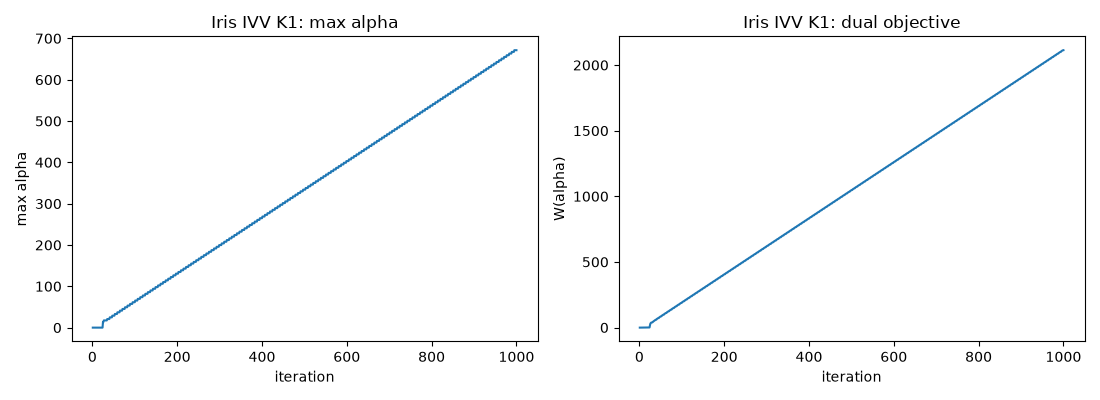
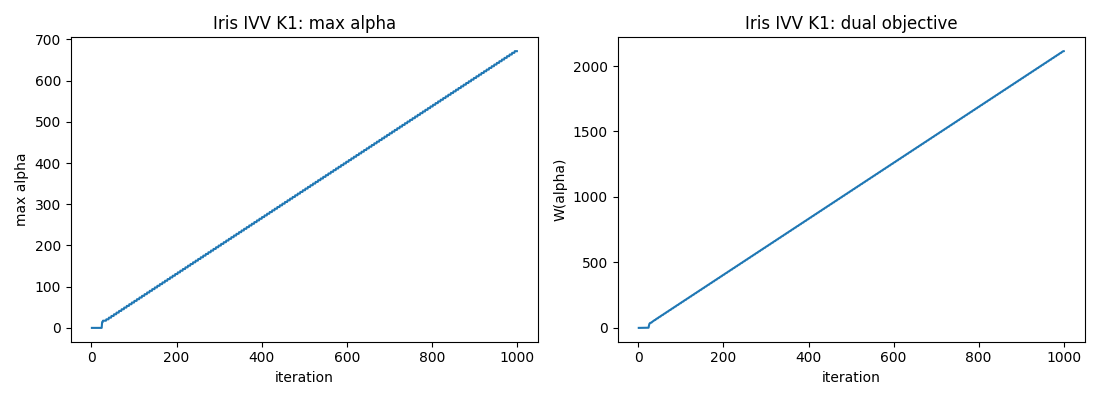
final

diff --git a/main.py b/main.py
@@ -45,7 +45,6 @@ def SMO(X, y, kernel, eps=1e-8, tau=1e-3, T=10e4, seed=42):
   iteration_history = []
 
 
-
   for i in range(int(T)):
     fxi = K @ (a * y) + b
 
@@ -67,14 +66,13 @@ def SMO(X, y, kernel, eps=1e-8, tau=1e-3, T=10e4, seed=42):
     i1 = np.argmax(vi) # 4a get the worst KKT violator index
 
     if vi[i1] < tau: # use the index to check if Step 3 succeeds
-      print(f"Reached KKT tolerance with vi[i1] = {vi[i1]}")
+      print(f"Converged - reached KKT tolerance with vi[i1] = {vi[i1]}")
       break
 
     ei = Ei[i1] - Ei # get e(i) part 4b
 
     k = K[i1,i1] + np.diag(K) - 2 * K[i1, :] #K[i1,i1] + diagnols of K to get K_ii - 2 * K[i1,i]
     
-    #valid_k_values = []
     valid_k_values = np.where(k > 1e-12)[0]
     valid_k_values = valid_k_values[valid_k_values != i1]
 
@@ -193,7 +191,7 @@ def getGridAndDecisionFunction(Xtr, Ytr, kernel, alpha, bias):
 
   return xx, yy, np.array(decision_function)
 
-def getConfusionMatrix(Xtr,Ytr,Xte,Yte, kernel, alpha, bias):
+def getConfusionMatrixAndMargin(Xtr,Ytr,Xte,Yte, kernel, alpha, bias):
 
   # get decision function over Xtr
   Xtr_fx = []
@@ -215,8 +213,8 @@ def getConfusionMatrix(Xtr,Ytr,Xte,Yte, kernel, alpha, bias):
   Xte_fx = []
   for i in Xte: 
     fx = 0
-    for index, x in enumerate(Xte):
-      fx += alpha[index] * Yte[index] * kernel(x,i) # iterate through all Xtr values and append to the fx 
+    for index, x in enumerate(Xtr):
+      fx += alpha[index] * Ytr[index] * kernel(x,i) # iterate through all Xte values and append to the fx 
     fx += bias # add the bias after taking the sum of all the product values based on index and x for decision function
     Xte_fx.append(fx) # add decision function values to match the grid size
 
@@ -237,8 +235,46 @@ def getConfusionMatrix(Xtr,Ytr,Xte,Yte, kernel, alpha, bias):
   print(Xte_confusion)
 
   print("\nTraining Accuracy = ", accuracy_score(Ytr,Ytr_predictions))
-  print("\nTest Accuracy = ", accuracy_score(Yte, Yte_predictions))
+  print("Test Accuracy = ", accuracy_score(Yte, Yte_predictions))
 
+  # first get ||w||^2
+
+  w2 = 0.0
+  
+  for i, xi in enumerate(Xtr):
+     for j, xj in enumerate(Xtr):
+        w2 += alpha[i] * alpha[j] * Ytr[i] * Ytr[j] * kernel(xi,xj)
+
+  w = np.sqrt(w2)
+
+  margin = 2/w
+  sum_a = np.sum(alpha)
+
+  print(f"Margin 2/||w|| = {margin}")
+  print(f"||w||^2 = {w2}")
+  print(f"sum of alpha = {sum_a}")
+  print(f"w2 agrees with alpha sum? {np.isclose(w2,sum_a, atol=1e-3)}") # use isclose with the tolerance being tau to check agreement
+        
+
+def plotWaAndMisclass(history, pltTitle, supTitle):
+  #plot history W(alpha) and misclassifications
+  iterations = [h["iteration"] for h in history]
+  Walpha = [h["objective"] for h in history]
+  misclassifications = [h["train_errors"] for h in history]
+
+  fig, (ax1, ax2) = plt.subplots(1,2)
+  ax1.plot(iterations,Walpha, label="W(alpha)")
+  ax1.set_xlabel("# of Iterations")
+  ax1.set_ylabel("Objective W(alpha)")
+  ax1.set_title("W(alpha) vs Iterations")
+
+  ax2.plot(iterations,misclassifications, label="Misclassification")
+  ax2.set_xlabel("# of Iterations")
+  ax2.set_ylabel("Misclassifications")
+  ax2.set_title("Misclassifications vs Iterations")
+  fig.suptitle(supTitle)
+  plt.savefig(pltTitle)
+  plt.show()
 
 def standardize_features(Xtr, Xte):
   mean = np.mean(Xtr, axis=0)
@@ -276,6 +312,16 @@ if __name__ == "__main__":
   Yte_XOR = df["y"].to_numpy(dtype=float)
 
   Xtr_XOR_stan, Xte_XOR_stan = standardize_features(Xtr_XOR, Xte_XOR)
+
+  df = pd.read_csv("SMO_data/rings_train.csv")
+  Xtr_R = df.drop(columns=["y"]).to_numpy(dtype=float)
+  Ytr_R = df["y"].to_numpy(dtype=float)
+
+  df = pd.read_csv("SMO_data/rings_test.csv")
+  Xte_R = df.drop(columns=["y"]).to_numpy(dtype=float)
+  Yte_R = df["y"].to_numpy(dtype=float)
+
+  Xtr_R_stan, Xte_R_stan = standardize_features(Xtr_R, Xte_R)
 
   # iris versicolor vs virginica
   df = pd.read_csv("SMO_data/iris_versicolor_virginica.csv")
@@ -366,20 +412,21 @@ print("equality constraint:", np.isclose(np.sum(alpha * y_toy), 0.0, atol=1e-8))
 print("\n--- part b: experiments ---")
 
 print("Dataset = iris_setosa_versicolor_train Kernel = K1")
-alpha, bias, history = SMO(Xtr_ISV,Ytr_ISV,kernel1)
+alpha, bias, history = SMO(Xtr_ISV_stan,Ytr_ISV,kernel1)
+print(f"bias = {bias}")
 eps = 1e-8
 
 # get the grid desicion function values from SMO
-xx, yy, fx = getGridAndDecisionFunction(Xtr_ISV, Ytr_ISV, kernel1, alpha, bias)
+xx, yy, fx = getGridAndDecisionFunction(Xtr_ISV_stan, Ytr_ISV, kernel1, alpha, bias)
 
 fx = np.array(fx)
 fx = fx.reshape(xx.shape) # make decision function 2D like xx and yy
 
 plt.contour(xx,yy,fx,levels=[-1,0,1], linestyles=['--','-','--'], colors="black") # boundary fx=0 and +- 1
 
-plt.scatter(Xtr_ISV[Ytr_ISV==1, 0],Xtr_ISV[Ytr_ISV==1,1], label="Setosa", marker="o") # scatter plot the Setosa values
-plt.scatter(Xtr_ISV[Ytr_ISV==-1, 0],Xtr_ISV[Ytr_ISV==-1,1], label="Versicolor", marker="o") # scatter plot the Versicolor values
-plt.scatter(Xtr_ISV[alpha > eps, 0],Xtr_ISV[alpha > eps, 1], label="Support Vectors", s=360, facecolors="none",
+plt.scatter(Xtr_ISV_stan[Ytr_ISV==1, 0],Xtr_ISV_stan[Ytr_ISV==1,1], label="Setosa", marker="o") # scatter plot the Setosa values
+plt.scatter(Xtr_ISV_stan[Ytr_ISV==-1, 0],Xtr_ISV_stan[Ytr_ISV==-1,1], label="Versicolor", marker="o") # scatter plot the Versicolor values
+plt.scatter(Xtr_ISV_stan[alpha > eps, 0],Xtr_ISV_stan[alpha > eps, 1], label="Support Vectors", s=360, facecolors="none",
     edgecolors="red", linewidths=1) # scatter plot the support vector values alpha > epsilon make them small red see through circles 
 
 plt.title("Iris Setosa Versicolor Kernel 1")
@@ -387,26 +434,30 @@ plt.xlabel("Sepal Length")
 plt.ylabel("Petal Length")
 plt.legend()
 plt.grid(True)
-plt.show()
 plt.savefig("part_b_ISV_K1.png")
+plt.show()
 
-getConfusionMatrix(Xtr_ISV, Ytr_ISV,Xte_ISV,Yte_ISV,kernel1,alpha,bias)
+
+getConfusionMatrixAndMargin(Xtr_ISV_stan, Ytr_ISV,Xte_ISV_stan,Yte_ISV,kernel1,alpha,bias)
+
+plotWaAndMisclass(history, "part_b_ISV_K1_Wa_Misclass.png", "Iris Setosa Versicolor Dataset Kernel 1")
 
 print("\nDataset = iris_setosa_versicolor_train Kernel = K2")
-alpha, bias, history = SMO(Xtr_ISV,Ytr_ISV,kernel2)
+alpha, bias, history = SMO(Xtr_ISV_stan,Ytr_ISV,kernel2)
+print(f"bias = {bias}")
 eps = 1e-8
 
 # get the grid desicion function values from SMO
-xx, yy, fx = getGridAndDecisionFunction(Xtr_ISV, Ytr_ISV, kernel2, alpha, bias)
+xx, yy, fx = getGridAndDecisionFunction(Xtr_ISV_stan, Ytr_ISV, kernel2, alpha, bias)
 
 fx = np.array(fx)
 fx = fx.reshape(xx.shape) # make decision function 2D like xx and yy
 
 plt.contour(xx,yy,fx,levels=[-1,0,1], linestyles=['--','-','--'], colors="black") # boundary fx=0 and +- 1
 
-plt.scatter(Xtr_ISV[Ytr_ISV==1, 0],Xtr_ISV[Ytr_ISV==1,1], label="Setosa", marker="o") # scatter plot the Setosa values
-plt.scatter(Xtr_ISV[Ytr_ISV==-1, 0],Xtr_ISV[Ytr_ISV==-1,1], label="Versicolor", marker="o") # scatter plot the Versicolor values
-plt.scatter(Xtr_ISV[alpha > eps, 0],Xtr_ISV[alpha > eps, 1], label="Support Vectors", s=360, facecolors="none",
+plt.scatter(Xtr_ISV_stan[Ytr_ISV==1, 0],Xtr_ISV_stan[Ytr_ISV==1,1], label="Setosa", marker="o") # scatter plot the Setosa values
+plt.scatter(Xtr_ISV_stan[Ytr_ISV==-1, 0],Xtr_ISV_stan[Ytr_ISV==-1,1], label="Versicolor", marker="o") # scatter plot the Versicolor values
+plt.scatter(Xtr_ISV_stan[alpha > eps, 0],Xtr_ISV_stan[alpha > eps, 1], label="Support Vectors", s=360, facecolors="none",
     edgecolors="red", linewidths=1) # scatter plot the support vector values alpha > epsilon make them small red see through circles 
 
 plt.title("Iris Setosa Versicolor Kernel 2")
@@ -414,14 +465,140 @@ plt.xlabel("Sepal Length")
 plt.ylabel("Petal Length")
 plt.legend()
 plt.grid(True)
-plt.show()
 plt.savefig("part_b_ISV_K2.png")
-getConfusionMatrix(Xtr_ISV, Ytr_ISV,Xte_ISV,Yte_ISV,kernel2,alpha,bias)
+plt.show()
+
+getConfusionMatrixAndMargin(Xtr_ISV_stan, Ytr_ISV,Xte_ISV_stan,Yte_ISV,kernel2,alpha,bias)
+
+plotWaAndMisclass(history, "part_b_ISV_K2_Wa_Misclass.png", "Iris Setosa Versicolor Dataset Kernel 2")
+
+
+print("\nDataset = rings Kernel = K1")
+alpha, bias, history = SMO(Xtr_R_stan,Ytr_R,kernel1)
+print(f"bias = {bias}")
+eps = 1e-8
+
+# get the grid desicion function values from SMO
+xx, yy, fx = getGridAndDecisionFunction(Xtr_R_stan, Ytr_R, kernel1, alpha, bias)
+
+fx = np.array(fx)
+fx = fx.reshape(xx.shape) # make decision function 2D like xx and yy
+
+plt.contour(xx,yy,fx,levels=[-1,0,1], linestyles=['--','-','--'], colors="black") # boundary fx=0 and +- 1
+
+plt.scatter(Xtr_R_stan[Ytr_R==1, 0],Xtr_R_stan[Ytr_R==1,1], label="x1", marker="o") # scatter plot the x1 values
+plt.scatter(Xtr_R_stan[Ytr_R==-1, 0],Xtr_R_stan[Ytr_R==-1,1], label="x2", marker="o") # scatter plot the x2 values
+plt.scatter(Xtr_R_stan[alpha > eps, 0],Xtr_R_stan[alpha > eps, 1], label="Support Vectors", s=360, facecolors="none",
+    edgecolors="red", linewidths=1) # scatter plot the support vector values alpha > epsilon make them small red see through circles 
+
+plt.title("Rings Kernel 1")
+plt.xlabel("X1")
+plt.ylabel("X2")
+plt.legend()
+plt.grid(True)
+plt.savefig("part_b_R_K1.png")
+plt.show()
+
+getConfusionMatrixAndMargin(Xtr_R_stan, Ytr_R,Xte_R_stan,Yte_R,kernel1,alpha,bias)
+plotWaAndMisclass(history, "part_b_R_K1_Wa_Misclass.png", "Rings Dataset Kernel 1")
+
+print("\nDataset = rings Kernel = K2")
+
+alpha, bias, history = SMO(Xtr_R_stan,Ytr_R,kernel2)
+print(f"bias = {bias}")
+eps = 1e-8
+
+# get the grid desicion function values from SMO
+xx, yy, fx = getGridAndDecisionFunction(Xtr_R_stan, Ytr_R, kernel2, alpha, bias)
+
+fx = np.array(fx)
+fx = fx.reshape(xx.shape) # make decision function 2D like xx and yy
+
+plt.contour(xx,yy,fx,levels=[-1,0,1], linestyles=['--','-','--'], colors="black") # boundary fx=0 and +- 1
+
+plt.scatter(Xtr_R_stan[Ytr_R==1, 0],Xtr_R_stan[Ytr_R==1,1], label="x1", marker="o") # scatter plot the x1 values
+plt.scatter(Xtr_R_stan[Ytr_R==-1, 0],Xtr_R_stan[Ytr_R==-1,1], label="x2", marker="o") # scatter plot the x2 values
+plt.scatter(Xtr_R_stan[alpha > eps, 0],Xtr_R_stan[alpha > eps, 1], label="Support Vectors", s=360, facecolors="none",
+    edgecolors="red", linewidths=1) # scatter plot the support vector values alpha > epsilon make them small red see through circles 
+
+plt.title("Rings Kernel 2")
+plt.xlabel("X1")
+plt.ylabel("X2")
+plt.legend()
+plt.grid(True)
+plt.savefig("part_b_R_K2.png")
+plt.show()
+
+getConfusionMatrixAndMargin(Xtr_R_stan, Ytr_R,Xte_R_stan,Yte_R,kernel2,alpha,bias)
+plotWaAndMisclass(history, "part_b_R_K2_Wa_Misclass.png", "Rings Dataset Kernel 2")
+
+
+print("\nXOR Kernel = K1")
+
+alpha, bias, history = SMO(Xtr_XOR_stan,Ytr_XOR,kernel1)
+print(f"bias = {bias}")
+eps = 1e-8
+
+# get the grid desicion function values from SMO
+xx, yy, fx = getGridAndDecisionFunction(Xtr_XOR_stan, Ytr_XOR, kernel1, alpha, bias)
+
+fx = np.array(fx)
+fx = fx.reshape(xx.shape) # make decision function 2D like xx and yy
+
+plt.contour(xx,yy,fx,levels=[-1,0,1], linestyles=['--','-','--'], colors="black") # boundary fx=0 and +- 1
+
+plt.scatter(Xtr_XOR_stan[Ytr_XOR==1, 0],Xtr_XOR_stan[Ytr_XOR==1,1], label="x1", marker="o") # scatter plot the x1 values
+plt.scatter(Xtr_XOR_stan[Ytr_XOR==-1, 0],Xtr_XOR_stan[Ytr_XOR==-1,1], label="x2", marker="o") # scatter plot the x2 values
+plt.scatter(Xtr_XOR_stan[alpha > eps, 0],Xtr_XOR_stan[alpha > eps, 1], label="Support Vectors", s=360, facecolors="none",
+    edgecolors="red", linewidths=1) # scatter plot the support vector values alpha > epsilon make them small red see through circles 
+
+plt.title("XOR Kernel 1")
+plt.xlabel("X1")
+plt.ylabel("X2")
+plt.legend()
+plt.grid(True)
+plt.savefig("part_b_XOR_K1.png")
+plt.show()
+
+getConfusionMatrixAndMargin(Xtr_XOR_stan, Ytr_XOR,Xte_XOR_stan,Yte_XOR,kernel1,alpha,bias)
+plotWaAndMisclass(history, "part_b_XOR_K1_Wa_Misclass.png", "XOR Dataset Kernel 1")
+
+print("\nXOR Kernel = K2")
+
+alpha, bias, history = SMO(Xtr_XOR_stan,Ytr_XOR,kernel2)
+print(f"bias = {bias}")
+eps = 1e-8
+
+# get the grid desicion function values from SMO
+xx, yy, fx = getGridAndDecisionFunction(Xtr_XOR_stan, Ytr_XOR, kernel2, alpha, bias)
+
+fx = np.array(fx)
+fx = fx.reshape(xx.shape) # make decision function 2D like xx and yy
+
+plt.contour(xx,yy,fx,levels=[-1,0,1], linestyles=['--','-','--'], colors="black") # boundary fx=0 and +- 1
+
+plt.scatter(Xtr_XOR_stan[Ytr_XOR==1, 0],Xtr_XOR_stan[Ytr_XOR==1,1], label="x1", marker="o") # scatter plot the x1 values
+plt.scatter(Xtr_XOR_stan[Ytr_XOR==-1, 0],Xtr_XOR_stan[Ytr_XOR==-1,1], label="x2", marker="o") # scatter plot the x2 values
+plt.scatter(Xtr_XOR_stan[alpha > eps, 0],Xtr_XOR_stan[alpha > eps, 1], label="Support Vectors", s=360, facecolors="none",
+    edgecolors="red", linewidths=1) # scatter plot the support vector values alpha > epsilon make them small red see through circles 
+
+plt.title("XOR Kernel 2")
+plt.xlabel("X1")
+plt.ylabel("X2")
+plt.legend()
+plt.grid(True)
+plt.savefig("part_b_XOR_K2.png")
+plt.show()
+
+getConfusionMatrixAndMargin(Xtr_XOR_stan, Ytr_XOR,Xte_XOR_stan,Yte_XOR,kernel2,alpha,bias)
+plotWaAndMisclass(history, "part_b_XOR_K2_Wa_Misclass.png", "XOR Dataset Kernel 2")
+
 
 
 # part c1 which is compare 10 random initializations
 print("\n--- part c1: random initializations ---")
 
+alphas = []
 for seed in range(10):
     alpha, bias, history = SMO(
         Xtr_ISV_stan,
@@ -430,6 +607,7 @@ for seed in range(10):
         T=10000,
         seed=seed
     )
+    alphas.append(alpha)
 
     w = (alpha * Ytr_ISV) @ Xtr_ISV_stan
 
@@ -440,6 +618,9 @@ for seed in range(10):
         f"sv={np.sum(alpha > 1e-8)}"
     )
 
+print("Are all alphas the same?")
+alphas = np.array(alphas)
+print(np.all(alphas == alphas[0]))
 
 # part c2 to compare our smo with sklearn svc
 print("\n--- part c2: sklearn comparison ---")
